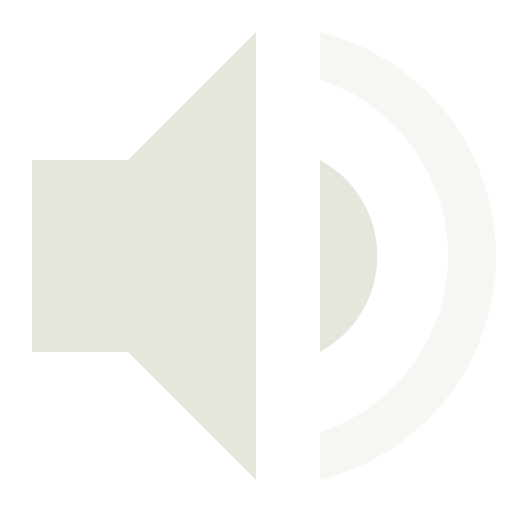
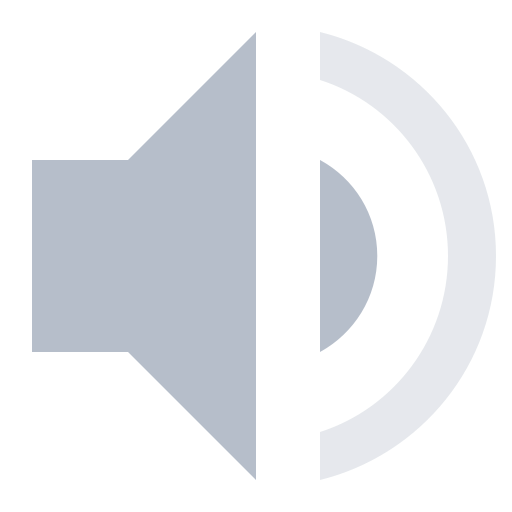
dark decay

Changed region(s): [[0.0625, 0.0625, 0.5, 0.9375], [0.625, 0.3125, 0.75, 0.6875]]

diff --git a/config/waybar/style.css b/config/waybar/style.css
@@ -1,22 +1,22 @@
-@define-color base00 #002635;
-@define-color base01 #3A565F;
-@define-color base02 #576E74;
-@define-color base03 #738689;
-@define-color base04 #ADB6B3;
-@define-color base05 #e6e6dc;
-@define-color base06 #E8E8DF;
-@define-color base07 #EAEAE2;
-@define-color base08 #c43060;
+@define-color base00 #101419;
+@define-color base01 #252A30;
+@define-color base02 #3A3F46;
+@define-color base03 #636972;
+@define-color base04 #8D949E;
+@define-color base05 #b6beca;
+@define-color base06 #BDC4CF;
+@define-color base07 #C3C9D3;
+@define-color base08 #e05f65;
 @define-color base09 #f08e48;
-@define-color base0A #ffcc1b;
-@define-color base0B #7fc06e;
-@define-color base0C #00cccc;
-@define-color base0D #1c8db2;
-@define-color base0E #c694ff;
-@define-color base0F #00384d;
-@define-color foreground #e6e6dc;
-@define-color background #002635;
-@define-color focus #b7cff9;
+@define-color base0A #f1cf8a;
+@define-color base0B #78dba9;
+@define-color base0C #74bee9;
+@define-color base0D #70a5eb;
+@define-color base0E #c68aee;
+@define-color base0F #1c252c;
+@define-color foreground #b6beca;
+@define-color background #101419;
+@define-color focus #78dba9;
 
 * {
     border: none;

diff --git a/config/eww/eww.scss b/config/eww/eww.scss
@@ -1,7 +1,7 @@
-$foreground: #e6e6dc;
-$background: #002635;
-$backgroundrgba: rgba(0,38,53,0.8);
-$focus: #b7cff9;
+$foreground: #b6beca;
+$background: #101419;
+$backgroundrgba: rgba(16,20,25,0.8);
+$focus: #78dba9;
 
 * { 
     all: unset;

diff --git a/config/qutebrowser/config.py b/config/qutebrowser/config.py
@@ -21,23 +21,23 @@ c.url.searchengines["nw"] = "https://nixos.wiki/?search={}"
 c.url.searchengines["w"] = "https://en.wikipedia.org/wiki/?search={}"
 c.url.searchengines["y"] = "https://www.youtube.com/results?search_query={}"
 
-base00 = "#002635"
-base01 = "#3A565F"
-base02 = "#576E74"
-base03 = "#738689"
-base04 = "#ADB6B3"
-base05 = "#e6e6dc"
-base06 = "#E8E8DF"
-base07 = "#EAEAE2"
-base08 = "#c43060"
+base00 = "#101419"
+base01 = "#252A30"
+base02 = "#3A3F46"
+base03 = "#636972"
+base04 = "#8D949E"
+base05 = "#b6beca"
+base06 = "#BDC4CF"
+base07 = "#C3C9D3"
+base08 = "#e05f65"
 base09 = "#f08e48"
-base0A = "#ffcc1b"
-base0B = "#7fc06e"
-base0C = "#00cccc"
-base0D = "#1c8db2"
-base0E = "#c694ff"
-base0F = "#00384d"
-focus = "#b7cff9"
+base0A = "#f1cf8a"
+base0B = "#78dba9"
+base0C = "#74bee9"
+base0D = "#70a5eb"
+base0E = "#c68aee"
+base0F = "#1c252c"
+focus = "#78dba9"
 
 c.colors.completion.category.bg = focus
 c.colors.completion.category.border.bottom = base00
